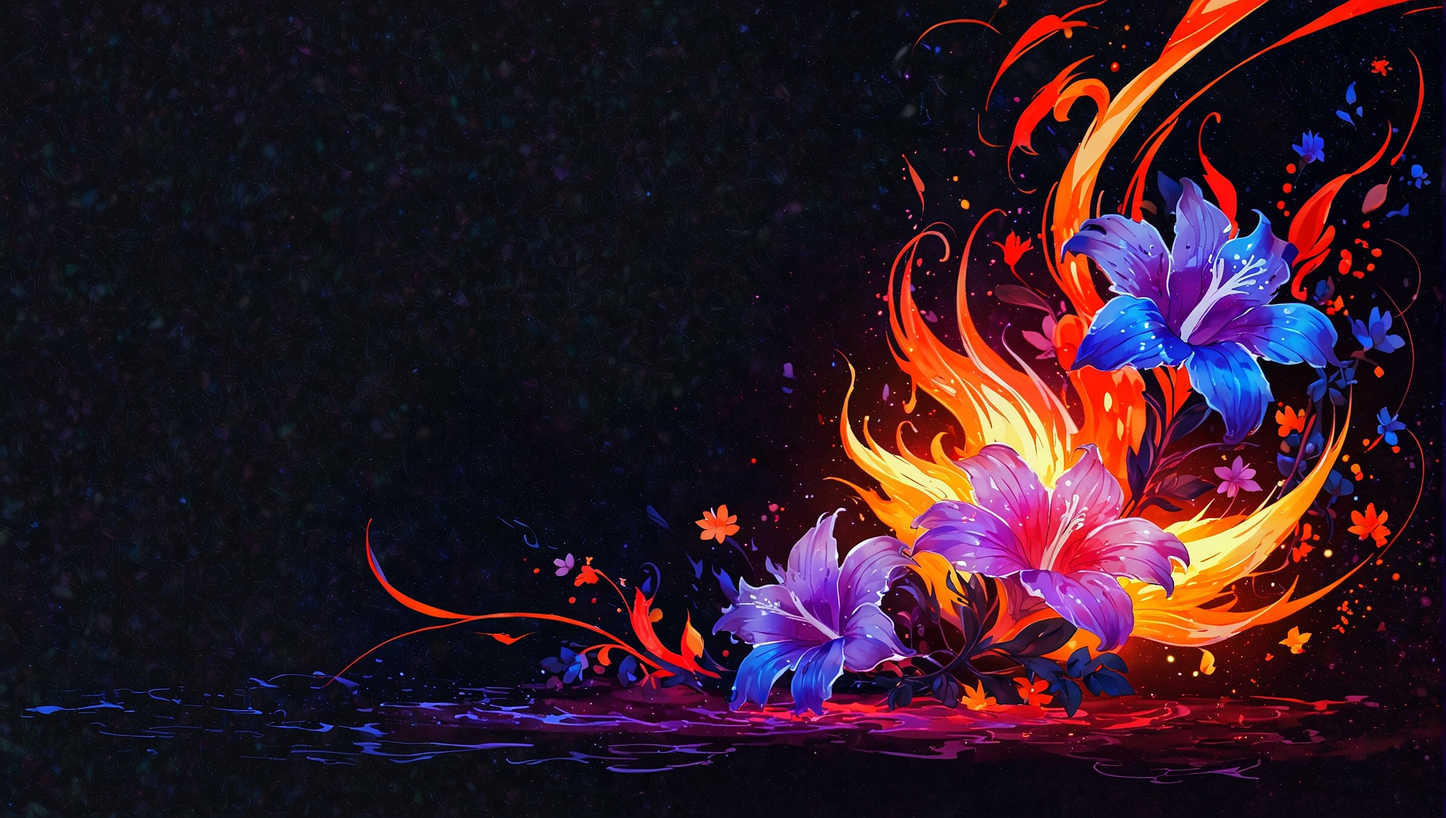
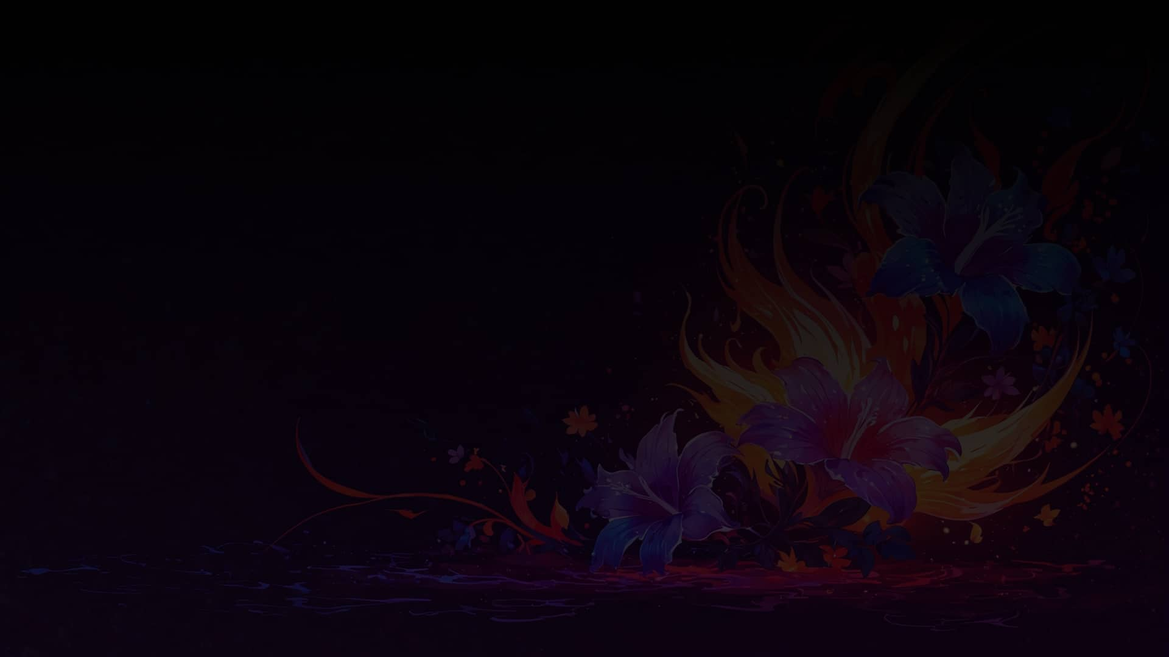
Optimized bgs

diff --git a/src/pages/Poems/Page.styled.js b/src/pages/Poems/Page.styled.js
@@ -9,7 +9,6 @@ export const Page = styled($Background)`
 	flex-direction: column;
 	height: auto;
 	min-height: 100%;
-
 	background-size: cover;
 	background-position: center;
 `;
@@ -30,6 +29,7 @@ export const MainContainer = styled($Container)`
 	display: flex;
 	flex-direction: column;
 	text-align: center;
+	align-items: center;
 
 	.pagination-container {
 		display: flex;
@@ -98,12 +98,22 @@ export const PoemsList = styled.div`
 	line-height: 1.25;
 	display: flex;
 	flex-direction: column;
-	gap: 0.5em;
+	gap: 0.75em;
 	flex: 1;
 `;
 
 export const PoemsItem = styled(Link)`
 	font-size: 1.75rem;
+	cursor: pointer;
+
+	transition-property: transform color;
+	transition-duration: 300ms;
+	transition-timing-function: cubic-bezier(0.25, 0.1, 0.25, 1);
+
+	&:hover,
+	&:active {
+		color: violet;
+	}
 `;
 
 export const HomeContactsContainer = ContactsContainer;

diff --git a/src/pages/Poems/Poems.jsx b/src/pages/Poems/Poems.jsx
@@ -10,7 +10,6 @@ import {
 import { MdOutlineChevronRight, MdOutlineChevronLeft } from "react-icons/md";
 
 // Simple components
-import { Link } from "react-router-dom";
 import GoBack from "../../components/GoBack/GoBack";
 import Contacts from "../../components/Contacts/Contacts";
 import ReactPaginate from "react-paginate";
@@ -20,7 +19,7 @@ import { usePagination } from "../../hooks/usePagination";
 import poems from "../../static/poems";
 
 // Background image
-import bgPrimary from "../../assets/images/fire-poems.jpg";
+import bgPrimary from "../../assets/images/fire-verses.jpg";
 
 export default function Poetry({ title }) {
 	const { currentItems, pageCount, handlePageClick } = usePagination(

diff --git a/src/static/poems.js b/src/static/poems.js
@@ -2,7 +2,7 @@ export default [
 	{
 		id: 1,
 		name: {
-			en: "Why hastily so the arrows run?",
+			en: "I was born in the deserted East, but with pale and flammable skin",
 		},
 		signature: {
 			en: "Author's signature",

diff --git a/src/components/Contacts/Component.styled.js b/src/components/Contacts/Component.styled.js
@@ -5,8 +5,8 @@ export const $Contacts = styled.div`
 	justify-content: center;
 	align-items: center;
 	flex-wrap: wrap-reverse;
-
 	gap: 0.5em 1.25em;
+	z-index: 999;
 `;
 
 export const ContactsItem = styled.a`

diff --git a/src/pages/Home/Page.styled.js b/src/pages/Home/Page.styled.js
@@ -25,6 +25,7 @@ export const LangsContainer = styled($Container)`
 export const ContactsContainer = styled(LangsContainer)`
 	top: unset;
 	bottom: 0;
+	z-index: 888;
 	left: 50%;
 
 	font-size: 1.5rem;
